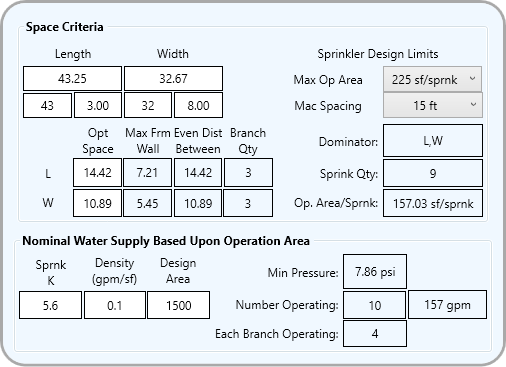
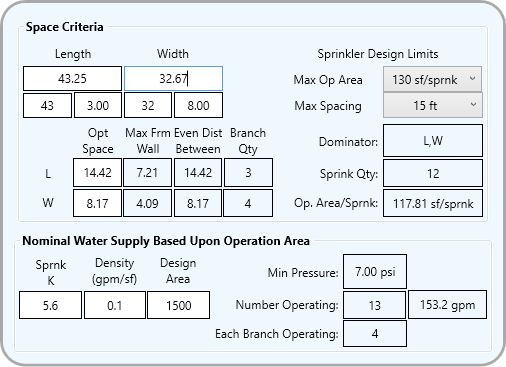
Readme Edit

diff --git a/aksSprinkSpacerCS/SprinkSpacerWPF.xaml b/aksSprinkSpacerCS/SprinkSpacerWPF.xaml
@@ -281,7 +281,7 @@
                                   VerticalContentAlignment="Center"
                                   HorizontalContentAlignment="Center"
                                   SelectionChanged="ComboBoxMaxSprinkOpArea_SelectionChanged" />
-                        <Label Content="Mac Spacing"
+                        <Label Content="Max Spacing"
                                Grid.Column="5"
                                Grid.Row="2"
                                HorizontalContentAlignment="Right"

diff --git a/README.md b/README.md
@@ -1,1 +1,19 @@
-# aksSprinkSpacerCS
+
+# aksSprinkSpacerCS     ![](aksSprinkSpacerCS/Images/SprnkSpacer.ico)
+
+![The Interface](aksSprinkSpacerCS/Images/SprinkSpacer_01.PNG)
+
+### General
+
+- A simple tool for determining the optimum automatic fire sprinkler spacing for a space which in turn is used to plan an NFPA 13 design layout.
+- The tool is useful for someone familiar with the decisions necessary to layout automatic fire sprinklers in a space given a set of sprinkler design criteria limits.
+- The tool also figures the ***nominal*** water supply demand that applies to specific design criteria. The supply demand is useful for quickly noticing the relative difference in demand between design layout choices. The ***nominal*** water supply demand is not the actual water supply demand and should not be interpreted as such.
+
+### Brief Explanation How It Might Be Used
+
+- Length and Width are the space dimensions from wall to wall. The upper boxes are numbers in decimal feet. The two boxes below the Length and Width are where feet and inches may be entered.
+ - For example if the room length is 43'-3" then enter the 43 in the foot box and 3 in the inches box. Any entered inches number larger than or equal to 12 will be accepted.
+- The **Opt Space** fields are the calculated optimum sprinkler spacing in the direction indicated. The optimum spacing is what results in the least number of sprinklers in that direction using the selections the in **Max Op Area** and **Max Spacing** pulldown comboboxes.
+- The **Dominator** box indicates which dimension, if it does, drives the optimum spacing. There are some space and sprinkler design limits where there is only one optimum solution spacing X by Y where a spacing layout Y by X actually requires more sprinklers.
+- In the image shown the optimum spacing is 14.42 x 10.89. If this space has a 2 foot module ceiling tile layout that requires the sprinklers to be spaced in 2 foot increments then the layout design has to be 14 feet in the L direction to meet the design limits selections.
+- For the image shown if the space is going to have upright sprinklers the **Max Frm Wall** and the **Even Dist Between** numbers are used for making free air sprinkler location placement decisions.
